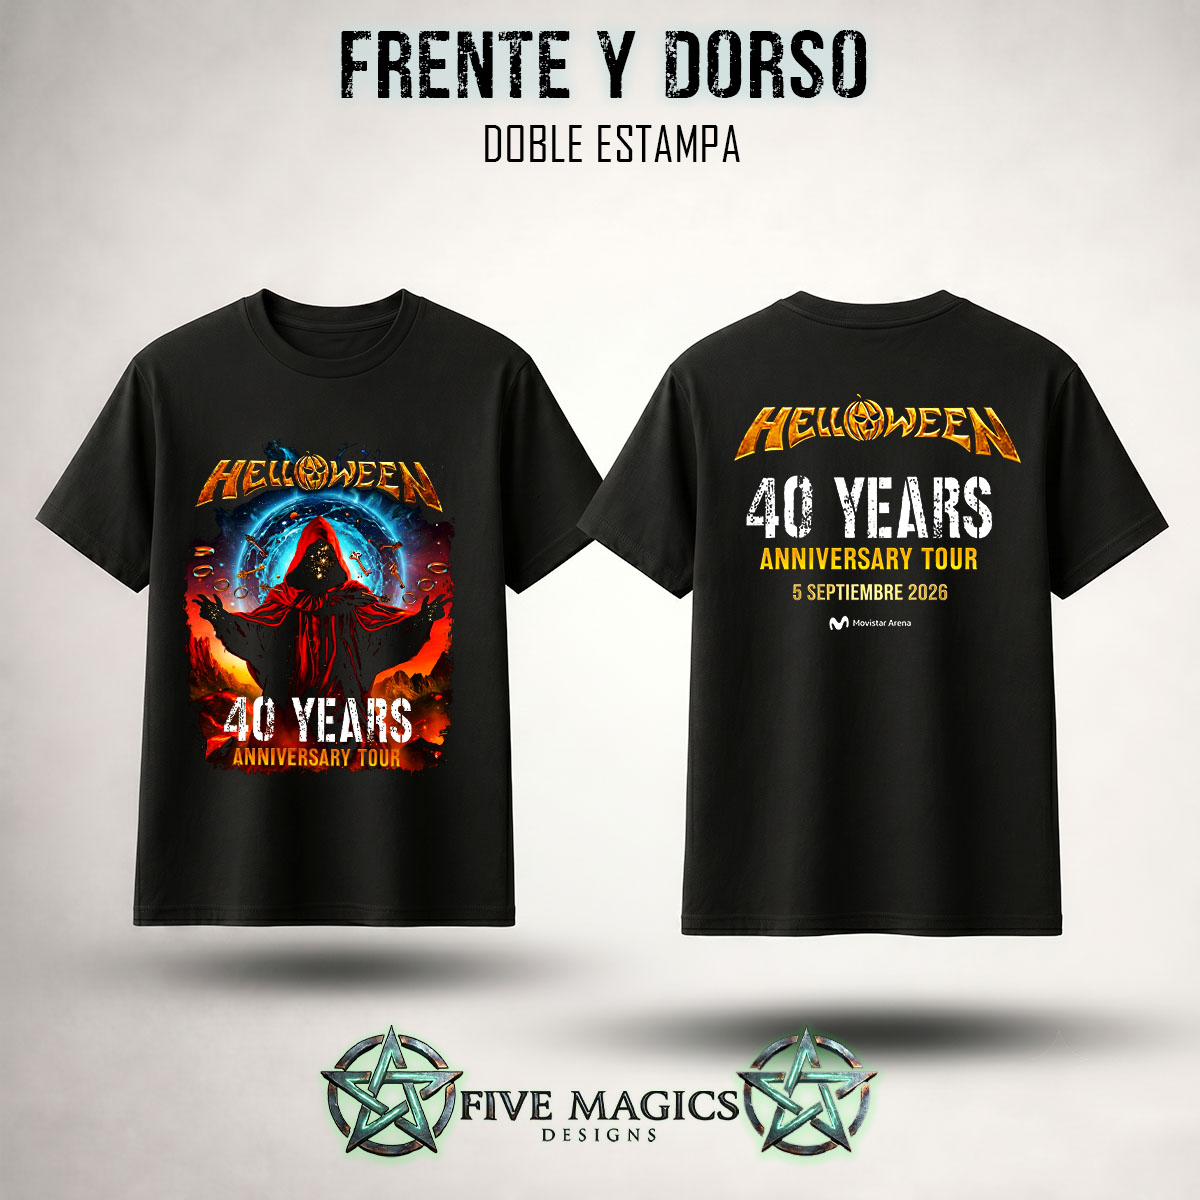
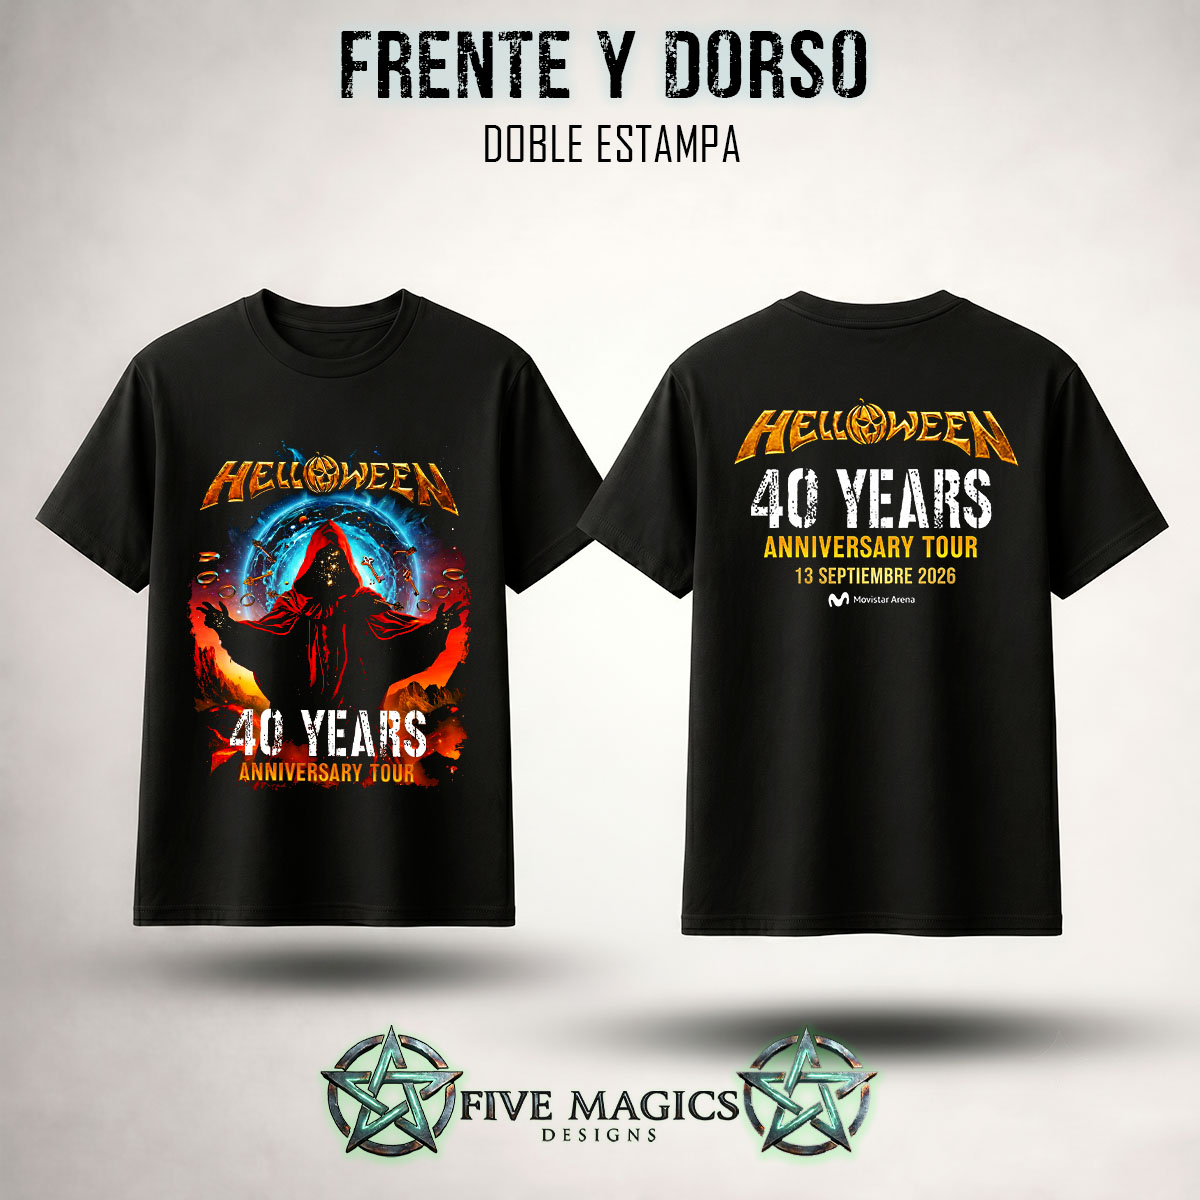
mejoras helloween

Changed region(s): [[0.1542, 0.37, 0.4008, 0.6783], [0.6167, 0.3083, 0.8633, 0.5242]]

diff --git a/helloween/index.html b/helloween/index.html
@@ -73,8 +73,9 @@
                 <p class="band-landing-brand">FIVE MAGICS DESIGNS</p>
                 <h1 id="bandLandingTitle">HELLOWEEN</h1>
                 <h2>COLECCIÓN ESPECIAL HELLOWEEN 40 YEARS</h2>
-                <p><strong>Más de 20 diseños disponibles</strong><br>Remeras desde $37.000 · Envío gratis a punto Andreani desde 1 prenda<br><strong>Pedila con tiempo para el show del 13/9</strong></p>
-                <a class="band-landing-primary-cta" href="#catalogoPrincipal">VER LOS +20 DISEÑOS</a>
+                <p><strong>Más de 40 diseños disponibles</strong><br>Remeras desde $37.000 · Envío gratis a punto Andreani desde 1 prenda<br><strong>Pedila con tiempo para el show del 13/9</strong></p>
+                <p class="band-landing-quality-line">DTG PREMIUM · ALGODÓN PEINADO · SIN TACTO PLÁSTICO</p>
+                <a class="band-landing-primary-cta" href="#catalogoPrincipal">VER LAS +40 REMERAS</a>
 
             </div>
             <div class="band-landing-hero-art">
@@ -97,7 +98,7 @@
             <div class="band-design-showcase-viewport" id="bandDesignShowcaseViewport" aria-live="off">
                 <div class="band-design-showcase-track" id="bandDesignShowcaseTrack"></div>
             </div>
-            <button type="button" class="band-design-showcase-cta" onclick="openBandShowcaseCollection()">VER TODA LA COLECCIÓN</button>
+            <button type="button" class="band-design-showcase-cta" onclick="openBandShowcaseCollection()">VER LAS +40 REMERAS</button>
         </section>
 
         <section class="band-landing-garment-selector" id="catalogoPrincipal" aria-label="Elegir prenda Helloween">

diff --git a/js/band-archives-config.js b/js/band-archives-config.js
@@ -526,8 +526,10 @@
             canonical: 'https://catalogo.fivemagicsdesigns.com/helloween/',
             image: '/images/banda_sugeridas/helloween/helloween_40_tour.jpg',
             imageUrl: 'https://catalogo.fivemagicsdesigns.com/images/banda_sugeridas/helloween/helloween_40_tour.jpg',
-            heroTitle: 'REMERAS, HOODIES Y BUZOS',
-            heroCopy: 'Explorá diseños de Helloween y elegí tu favorito para armar el pedido.',
+            heroTitle: 'COLECCIÓN ESPECIAL HELLOWEEN 40 YEARS',
+            heroCopy: '<strong>Más de 40 diseños disponibles</strong><br>Remeras desde $37.000 · Envío gratis a punto Andreani desde 1 prenda<br><strong>Pedila con tiempo para el show del 13/9</strong>',
+            heroCtaLabel: 'VER LAS +40 REMERAS',
+            heroQualityLine: 'DTG PREMIUM · ALGODÓN PEINADO · SIN TACTO PLÁSTICO',
             finalTitle: '¿BUSCABAS OTRO DISEÑO DE HELLOWEEN?',
             finalCopy: 'También hacemos diseños personalizados a partir de una tapa, imagen o idea.',
             whatsappMessage: 'Hola FMD! Estoy buscando un diseño de Helloween que no encontré en la colección. ¿Puedo enviarles una imagen o contarles la idea?',
@@ -538,7 +540,7 @@
                 campaignPreview: 'helloween-show-2026',
                 title: 'MÁS DE 40 REMERAS HELLOWEEN',
                 copy: 'Tocá un diseño para verlo en detalle.',
-                ctaLabel: 'VER TODA LA COLECCIÓN',
+                ctaLabel: 'VER LAS +40 REMERAS',
                 durationSeconds: 60,
                 order: [
                     'helloween-40-years-tour-buenos-aires',

diff --git a/scripts/build-band-landings.js b/scripts/build-band-landings.js
@@ -167,7 +167,8 @@ function renderLanding(config, sharedCommerceMarkup) {
                 <h1 id="bandLandingTitle">${config.displayName}</h1>
                 <h2>${config.heroTitle}</h2>
                 <p>${config.heroCopy}</p>
-                <a class="band-landing-primary-cta" href="#catalogoPrincipal">VER DISEÑOS</a>
+${config.heroQualityLine ? `                <p class="band-landing-quality-line">${config.heroQualityLine}</p>` : ''}
+                <a class="band-landing-primary-cta" href="#catalogoPrincipal">${config.heroCtaLabel || 'VER DISEÑOS'}</a>
 ${config.relatedArchive ? `                <a class="band-landing-related-archive" href="${config.relatedArchive.href}" aria-label="${config.relatedArchive.label}: ${config.relatedArchive.title}">
                     <span>${config.relatedArchive.label}</span>
                     <strong>${config.relatedArchive.title}</strong>

diff --git a/styles/band-landing.css b/styles/band-landing.css
@@ -240,6 +240,16 @@ body.band-landing-page[data-band="Ricardo Iorio"] .band-landing-hero h1 {
     line-height: 1.65;
 }
 
+.band-landing-hero-copy > .band-landing-quality-line {
+    margin-top: 16px;
+    color: #f0c75e;
+    font-family: "Oswald", sans-serif;
+    font-size: 0.82rem;
+    font-weight: 700;
+    line-height: 1.35;
+    letter-spacing: 0.12em;
+}
+
 .band-landing-primary-cta,
 .band-landing-custom a {
     min-height: 48px;
